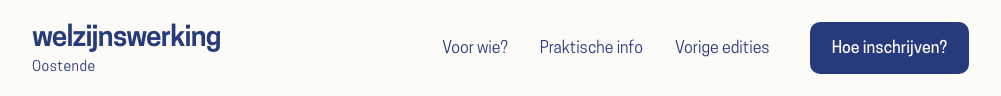
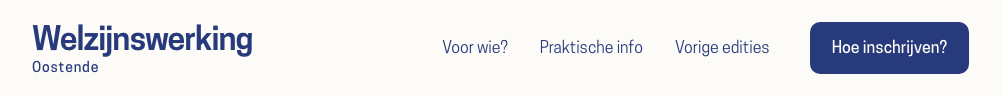
Strengthen header wordmark typography and local signature

Changed region(s): [[0.031, 0.25, 0.2787, 0.5938], [0.031, 0.625, 0.1239, 0.75]]

diff --git a/src/styles/campaign.css b/src/styles/campaign.css
@@ -139,7 +139,7 @@ body.menu-open{position:fixed;top:var(--menu-scroll-offset);width:100%;overflow:
 .event-hours{display:block;margin-top:4px;font-variant-numeric:tabular-nums}
 
 /* Horizontal wordmark: a clear name with a quiet local signature. */
-.header-wordmark{flex-direction:column;align-items:flex-start;flex-shrink:0;gap:5px;color:var(--brand);font-size:clamp(1.125rem,4.8vw,1.5rem);line-height:1.1}
+.header-wordmark{flex-direction:column;align-items:flex-start;flex-shrink:0;gap:3px;color:var(--brand);font-size:clamp(1.25rem,5.2vw,1.625rem);line-height:1.1}
 .header-wordmark-name{white-space:nowrap}
-.header-wordmark-city{font:400 .8125rem/1.2 var(--sans);letter-spacing:.035em}
-@media(min-width:1001px){.header-wordmark{font-size:1.75rem;gap:6px}.header-wordmark-city{font-size:.875rem}}
+.header-wordmark-city{font:500 .8125rem/1.2 var(--sans);letter-spacing:.06em}
+@media(min-width:1001px){.header-wordmark{font-size:2rem;gap:3px}.header-wordmark-city{font-size:.875rem}}

diff --git a/DESIGN.md b/DESIGN.md
@@ -369,4 +369,4 @@ Op verzoek van de gebruiker volgen alle hoofdsectietitels de sectiekoppen van St
 
 ## Horizontaal woordmerk in de header — 21 oktober 2026
 
-Op verzoek van de gebruiker staat “welzijnswerking” in de navigatie op één regel, zonder eindpunt, met “Oostende” kleiner eronder en links uitgelijnd. Beide regels gebruiken het bestaande donkerblauw en Cooper Hewitt; de naam gebruikt Semibold en de plaatsnaam Book. De naam schaalt op mobiel van 18 tot 24px en gebruikt vanaf 1001px 28px; de plaatsnaam gebruikt 13px en op desktop 14px. Dit vervangt uitsluitend de tweeregelige woordmerkvorm in de header; footer en mobiele dialoog behouden hun bestaande vorm. Build en Astro-controle slagen; de header is visueel gecontroleerd op 320, 390, 1001 en 1440px zonder horizontale overflow of overlap. Screenshots staan in `qa/wordmark-2026-10-21/`. De detector geeft alleen adviserende meldingen over lokale lettergroottes in het bestaande stylesheet.
+Op verzoek van de gebruiker staat “Welzijnswerking” met hoofdletter in de navigatie op één regel, zonder eindpunt, met “Oostende” kleiner eronder en links uitgelijnd. Beide regels gebruiken het bestaande donkerblauw en Cooper Hewitt; de naam gebruikt Semibold en de plaatsnaam Medium met .06em letterafstand. De naam schaalt op mobiel van 20 tot 26px en gebruikt vanaf 1001px 32px; de plaatsnaam gebruikt 13px en op desktop 14px. Tussen de regels staat 3px ruimte. Deze aangescherpte versie volgt de gebruikersfeedback op de eerste horizontale uitvoering. Dit vervangt uitsluitend de tweeregelige woordmerkvorm in de header; footer en mobiele dialoog behouden hun bestaande vorm. Build en Astro-controle slagen; de header is visueel gecontroleerd op 320, 390, 1001 en 1440px zonder horizontale overflow of overlap. Screenshots staan in `qa/wordmark-2026-10-21/`. De detector geeft alleen adviserende meldingen over lokale lettergroottes in het bestaande stylesheet.
